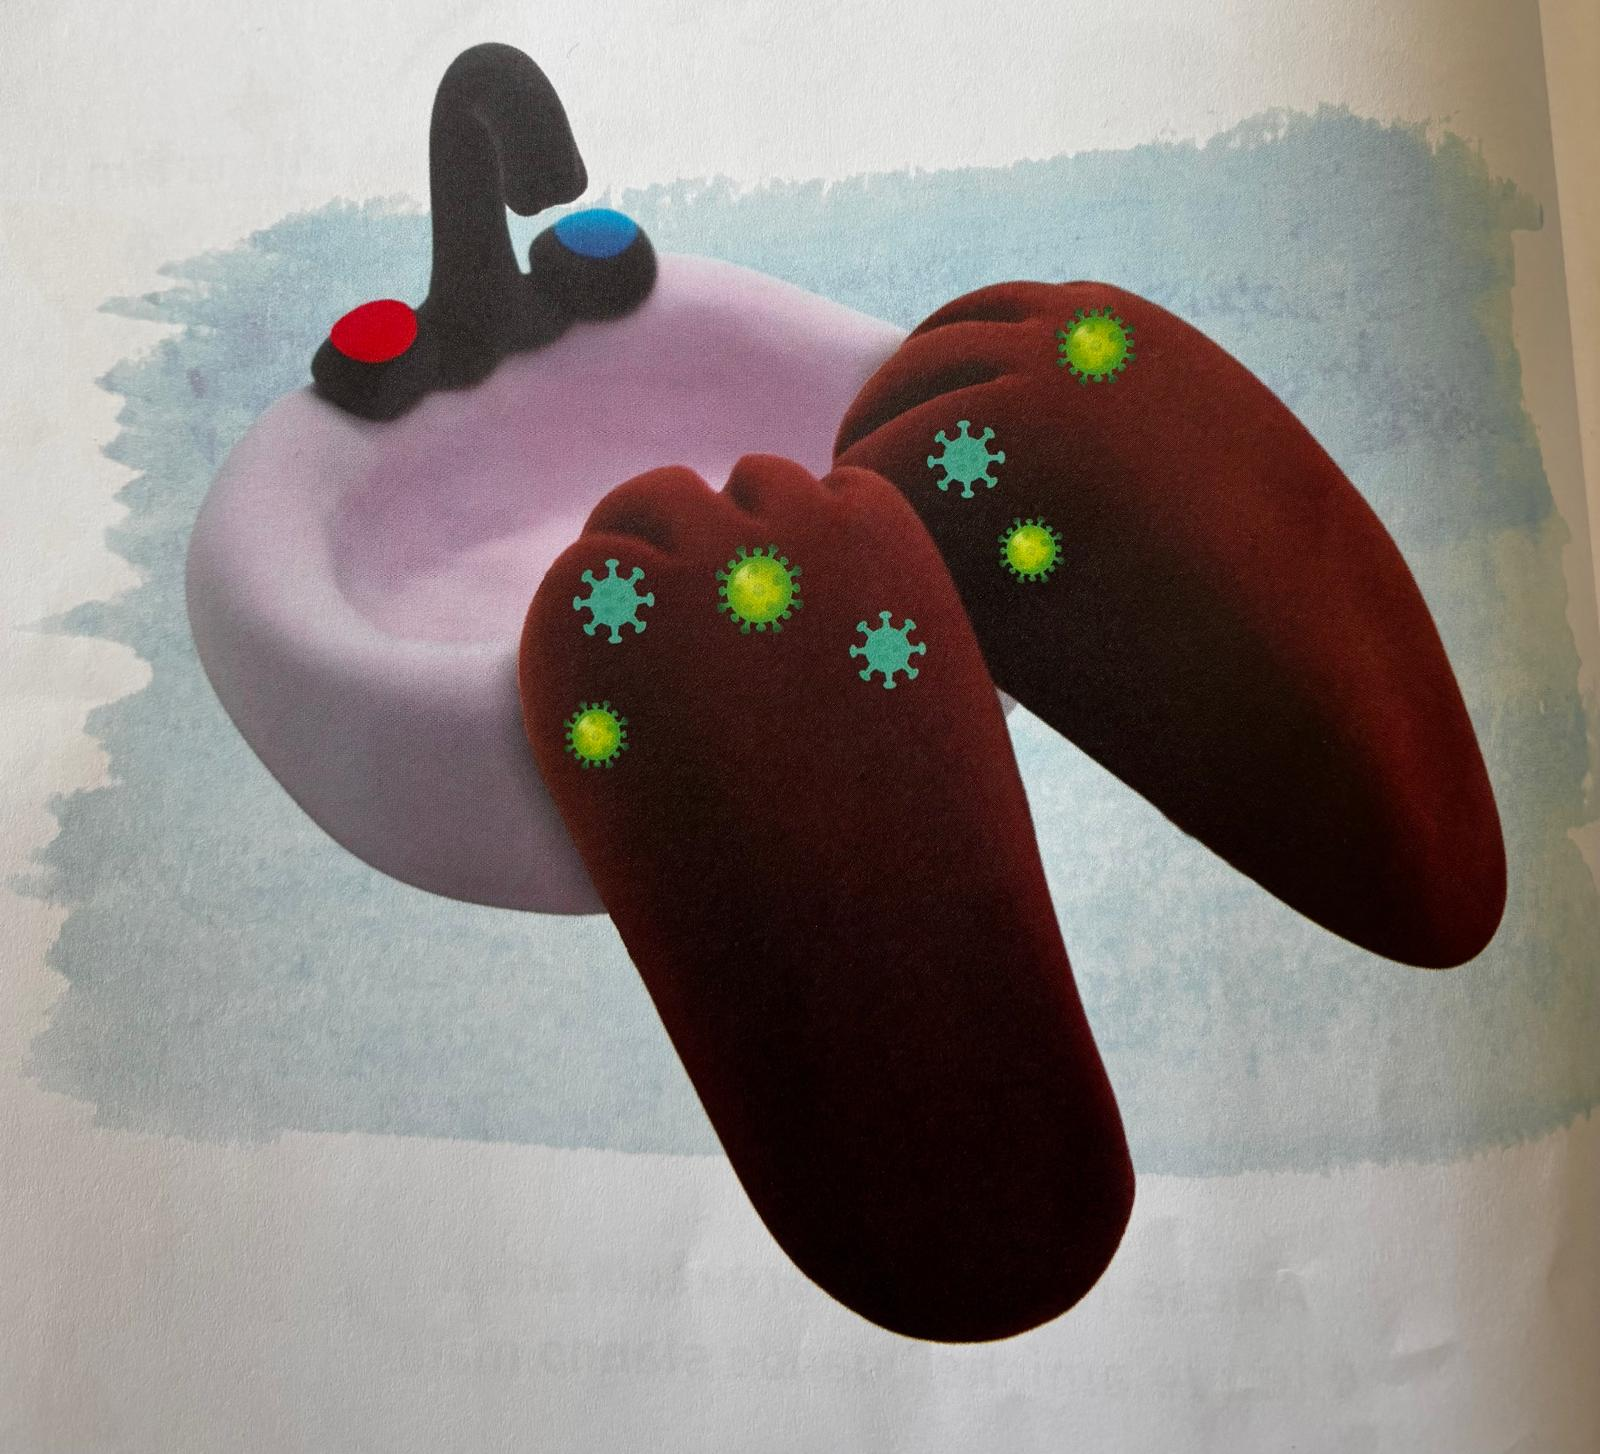
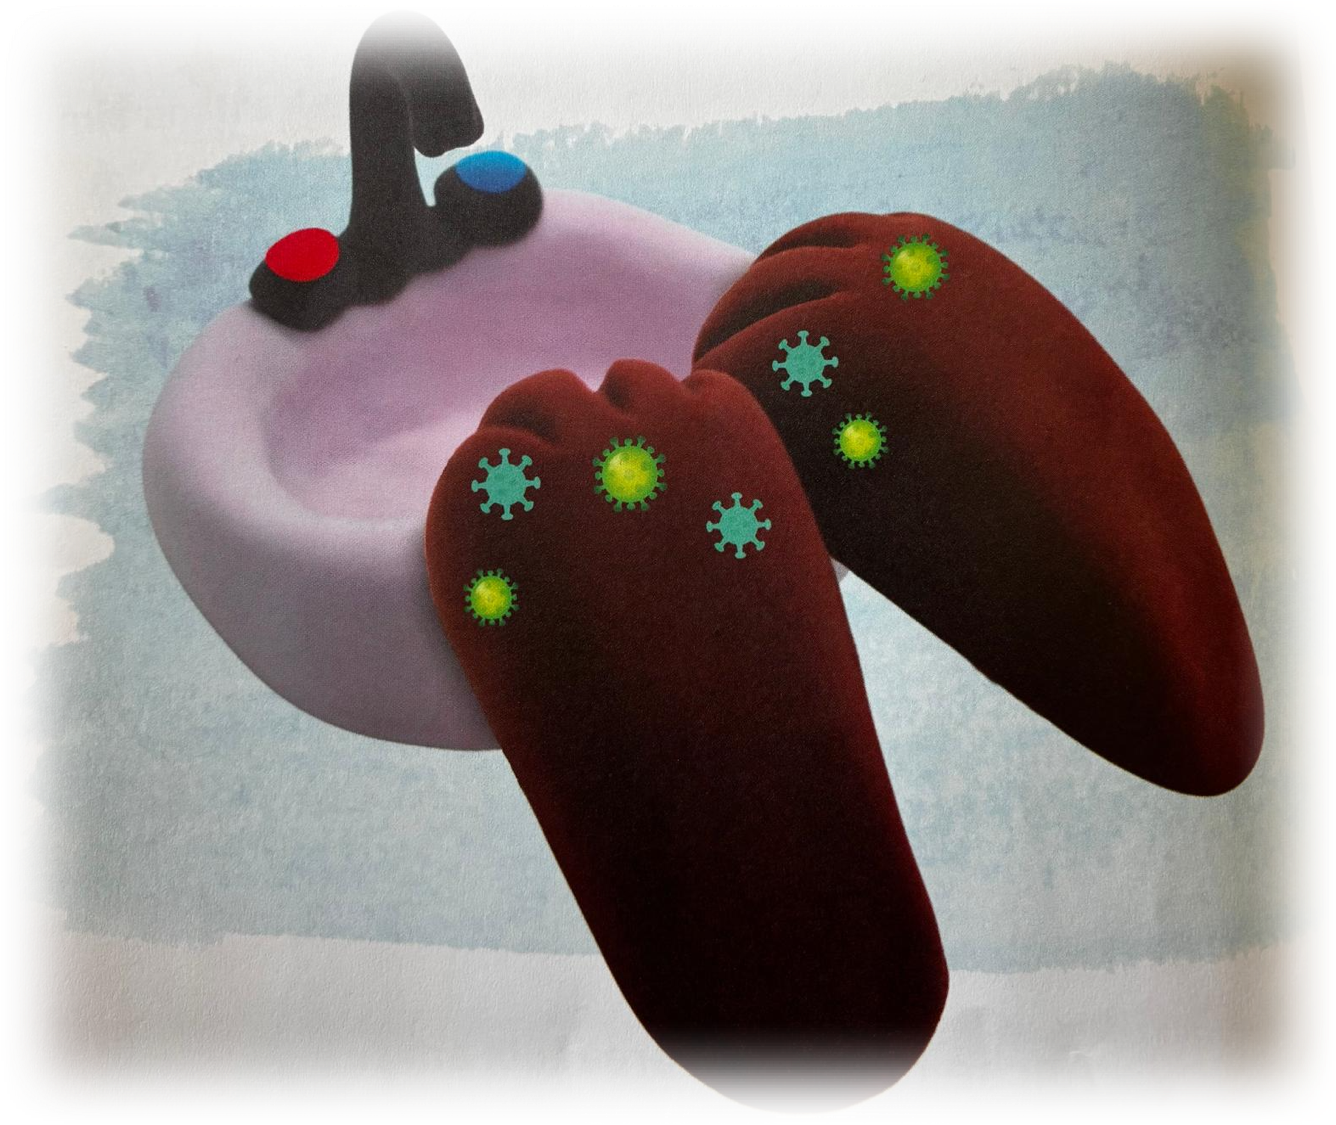
Add files via upload

diff --git a/index.html b/index.html
@@ -558,11 +558,11 @@
             /* L'IMMAGINE INTERNA: LA VERA VIA DI MEZZO PERFETTA */
             .scene-card img {
                 /* 🔴 IMPOSTATE AL 68%: Né troppo piccole (50%) né giganti (80%) */
-                width: 140%;
-                height: 140%;
+                width: 120%;
+                height: 120%;
                 object-fit: contain; /* Mostra tutta l'immagine senza mai tagliarla */
                 margin: auto; /* La mantiene perfettamente centrata nel container */
-                border-radius: 20px;
+                border-radius: 50px;
                 box-shadow: none;
                 border: none;
                 display: block;
@@ -612,13 +612,13 @@
         }
 
         .scene-caption {
-            font-size: 21px;
-            font-weight: 800;
-            color: var(--dark);
-            line-height: 1.45;
+            font-size: 35px; /* Portato a 32px per renderlo gigante e immediato */
+            font-weight: 1000; /* Molto marcato per facilitare la lettura */
+            color: #2ec4b6;
+            line-height: 1.4; /* Spaziatura perfetta tra le righe */
             margin: 0;
+            letter-spacing: -0.3px; /* Compatta leggermente le lettere per un look moderno stile app */
         }
-
         /* CARD DELLE RISPOSTE */
         .answers-card {
             border-radius: var(--radius-app);
@@ -1053,8 +1053,8 @@
             .question-bar-card {
                 flex-direction: column;
                 text-align: center;
-                padding: 20px;
-                gap: 12px;
+                padding: 50px;
+                gap: 22px;
             }
         }
     </style>